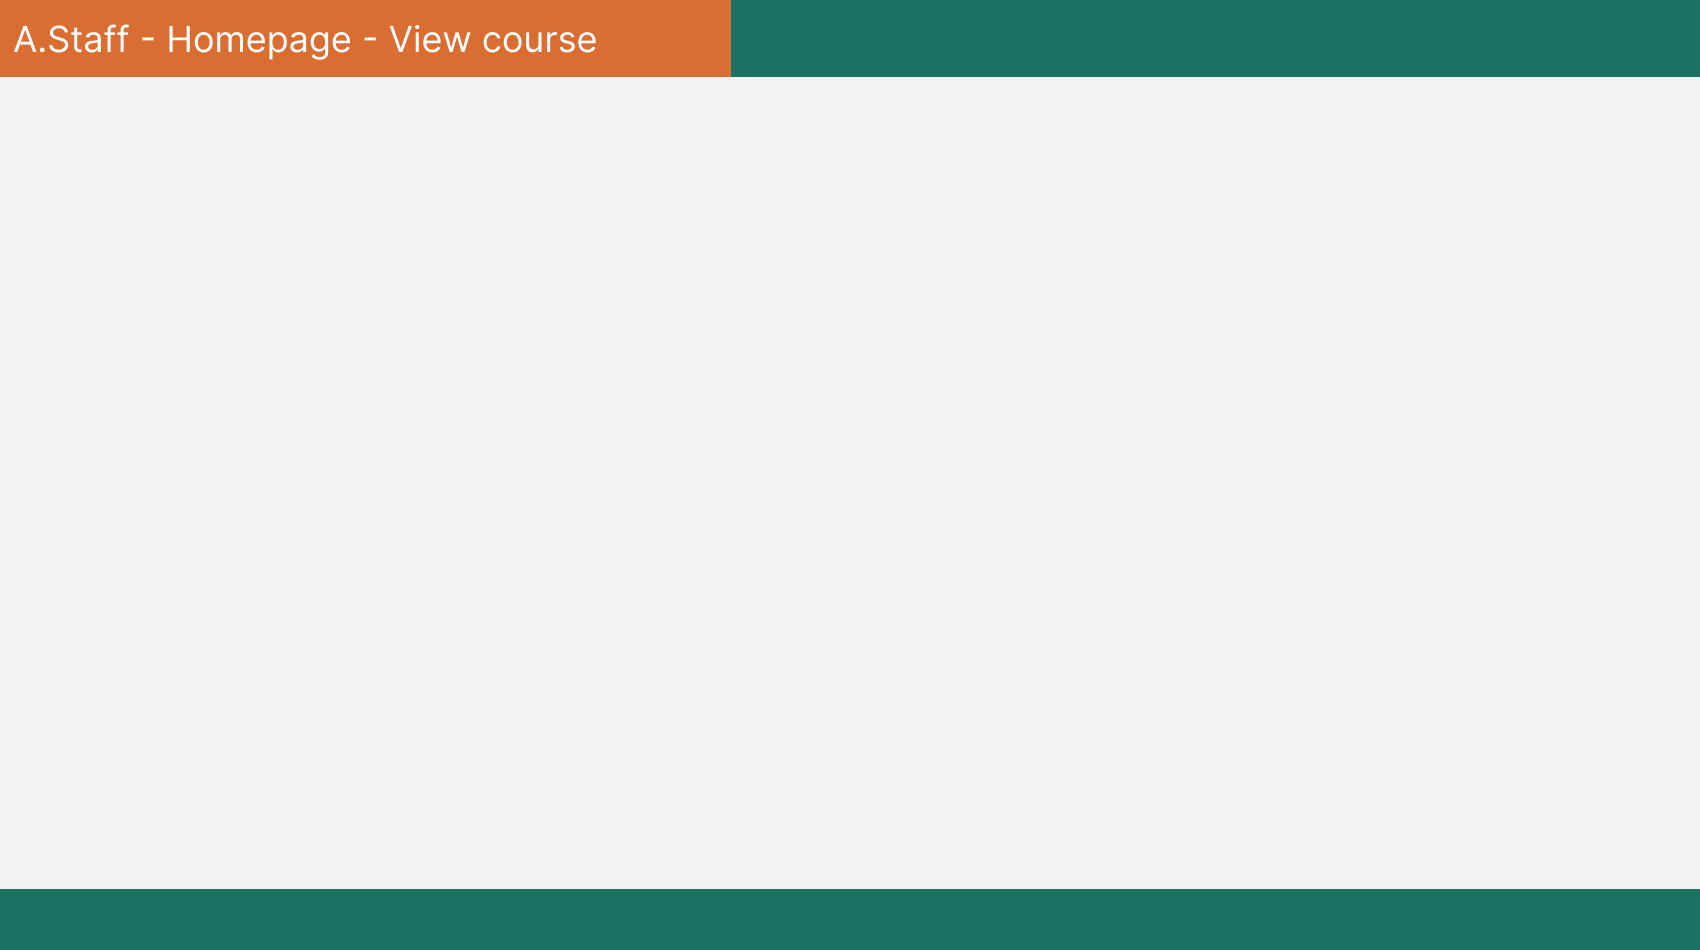
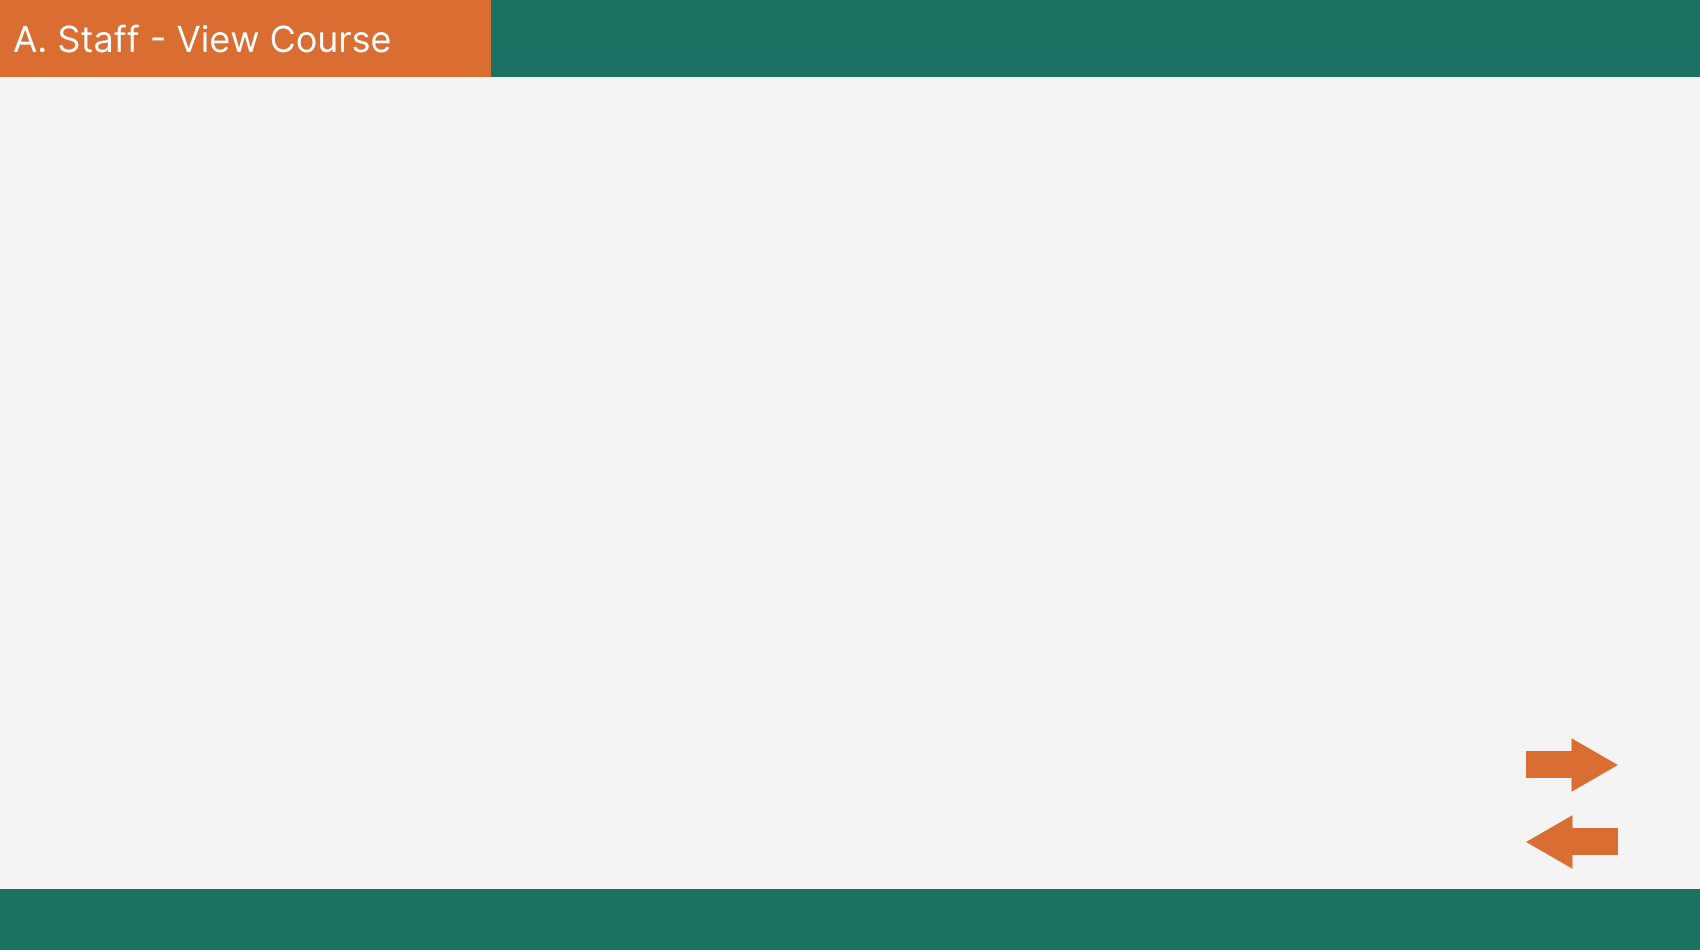
feat: Add some more Activities in Staff window

Changed region(s): [[0.0312, 0.0, 0.4365, 0.0916], [0.9041, 0.8547, 0.9665, 0.9158], [0.8729, 0.7632, 0.9665, 0.8242]]

diff --git a/SFML/Activity2.cpp b/SFML/Activity2.cpp
@@ -104,6 +104,46 @@ void Activity2::createNewSchoolYearStaff()
     }
 }
 
+void Activity2::createSemesterStaff(SchoolYear& SY)
+{
+    //CreateSemesterStaff.png
+    sf::RenderWindow windowNext(sf::VideoMode(1700, 950), "Create Semester", sf::Style::Close | sf::Style::Titlebar);
+
+    sf::Font fontNext;
+    if (!fontNext.loadFromFile("TextFont/arial.ttf"))
+        std::cout << "Could not load the font" << std::endl;
+
+    sf::Texture textureNext;
+    if (!textureNext.loadFromFile("Assets/CreateSemesterStaff.png"))
+        std::cout << "Could not load the CreateSemesterStaff image" << std::endl;
+    std::cout << "Generate Create Semester Staff sucess" << std::endl;
+    sf::Sprite background(textureNext);
+
+    Button goBackBtn(686, 766, 245, 66, "Go back", fontNext, orange);
+
+
+    while (windowNext.isOpen()) {
+        sf::Event event;
+        while (windowNext.pollEvent(event)) {
+            if (event.type == sf::Event::Closed)
+                windowNext.close();  // Close 
+            else if (event.type == sf::Event::MouseButtonPressed) {
+                sf::Vector2i mousePos = sf::Mouse::getPosition(windowNext);
+
+                if (goBackBtn.isClicked(mousePos))
+                    windowNext.close();
+            }
+
+        }
+
+        windowNext.clear(sf::Color::White);
+        windowNext.draw(background);
+
+        goBackBtn.draw(windowNext);
+        windowNext.display();
+    }
+}
+
 void Activity2::viewAllCourseStaff(vector<Course>& course)
 {
     sf::RenderWindow windowNext(sf::VideoMode(1700, 950), "All Course", sf::Style::Close | sf::Style::Titlebar);
@@ -121,7 +161,7 @@ void Activity2::viewAllCourseStaff(vector<Course>& course)
     Button goBackBtn(686, 766, 245, 66, "Go back", fontNext, orange);
     vector<Text> allOfCourse;
     for (int i = 0; i < course.size(); i++) {
-        Text temp(100, 100 + 30 * i, course[i].getID(), fontNext, sf::Color(30, 30, 30), 25);
+        Text temp(100.f, 100.f + 30 * i, course[i].getID(), fontNext, sf::Color(30, 30, 30), 25);
         allOfCourse.push_back(temp);
     }
 
@@ -153,7 +193,7 @@ void Activity2::viewAllCourseStaff(vector<Course>& course)
 
 void Activity2::viewCourseInSemester(Semester& semester)
 {
-
+    int displayFrom = 0;
     const sf::Color GREEN = sf::Color(26, 114, 98);
     sf::RenderWindow windowNext(sf::VideoMode(1700, 950), "View a semester", sf::Style::Close | sf::Style::Titlebar);
     sf::Texture textureNext;
@@ -167,6 +207,8 @@ void Activity2::viewCourseInSemester(Semester& semester)
     std::cout << "Generate Your course student sucess" << std::endl;
     sf::Sprite background(textureNext);
 
+    Button nextPageBtn(1226.f, 750.f, 92.f, 62.f, "Next", fontNext, sf::Color(218, 110, 50));
+    Button prevPageBtn(1226.f, 827.f, 92.f, 62.f, "Prev", fontNext, sf::Color(218, 110, 50));
     
 
     Button goBackBtn(686, 766, 245, 66, "Go back", fontNext, orange);
@@ -175,18 +217,19 @@ void Activity2::viewCourseInSemester(Semester& semester)
     vector<courseButton> allOfCourse;
     //std::cout << semester.courses[0].getID() << std::endl;
     
-    courseButton temp(65, 209, semester.courses[0], fontNext);
+    //courseButton temp(65, 209, semester.courses[0], fontNext);
 
-    //for (int i = 0; i < semester.courses.size(); i++) {
-    //    //Text temp(150, 300 + 150 * i, semester.courses[i].getID(), fontNext, sf::Color(30, 30, 30), 25);
-    //    courseButton temp(65 + 273*(i % 5), 209 + 210 * (i/5), semester.courses[i], fontNext);
-    //    allOfCourse.push_back(temp);
+    for (int i = 0; i < semester.courses.size(); i++) {
+        courseButton temp(65 + 273*(i % 5), 209 + 210 * (i/5), semester.courses[i], fontNext);
+        allOfCourse.push_back(temp);
 
-    //    std::cout << semester.courses[i].getID() << std::endl;
-    //    //std::cout << semester.courses[i].
-    //}
+        std::cout << semester.courses[i].getID() << std::endl;
+        //std::cout << semester.courses[i].
+    }
 
     while (windowNext.isOpen()) {
+        long long limitDisplay = (displayFrom + 4) > allOfCourse.size() ? allOfCourse.size() : (displayFrom + 4);
+
         sf::Event event;
         while (windowNext.pollEvent(event)) {
             if (event.type == sf::Event::Closed)
@@ -196,6 +239,16 @@ void Activity2::viewCourseInSemester(Semester& semester)
 
                 if (goBackBtn.isClicked(mousePos))
                     windowNext.close();
+
+                if (prevPageBtn.isClicked(mousePos)) {
+                    if (displayFrom - 4 >= 0)
+                        displayFrom -= 4;
+                }
+
+                if (nextPageBtn.isClicked(mousePos)) {
+                    if (displayFrom + 4 <= allOfCourse.size())
+                        displayFrom += 4;
+                }
             }
 
         }
@@ -204,9 +257,9 @@ void Activity2::viewCourseInSemester(Semester& semester)
         windowNext.draw(background);
 
         text.draw(windowNext);
-        //for (int i = 0; i < semester.courses.size(); i++) {
-        //    allOfCourse[i].draw(windowNext);
-        //}
+        for (int i = displayFrom; i < limitDisplay; i++) {
+            allOfCourse[i].draw(windowNext);
+        }
 
         goBackBtn.draw(windowNext);
         windowNext.display();
@@ -251,7 +304,7 @@ void Activity2::viewOneClass(Class& oneclass)
             temp += ' ';
         temp += oneclass.students[i].getGender();
         
-        Text text(82, 188 + 32*i, temp, fontNext, BLACK, 32);
+        Text text(82.f, 188.f + 32*i, temp, fontNext, BLACK, 32);
 
         listOfStudent.push_back(text);
     }
@@ -305,14 +358,17 @@ void Activity2::viewAllClassStaff(vector<Class>& allClass)
         std::cout << "Could not load the font" << std::endl;
 
     sf::Texture textureNext;
-    if (!textureNext.loadFromFile("Assets/ViewAllClassesStaff.png"))
-        std::cout << "Could not load the YourCourseStudent image" << std::endl;
+    if (!textureNext.loadFromFile("Assets/ViewAllClassStaff.png"))
+        std::cout << "Could not load the ViewAllClassStaff image" << std::endl;
     std::cout << "Generate View all class sucess" << std::endl;
     sf::Sprite background(textureNext);
 
     Button goBackBtn(686, 766, 245, 66, "Go back", fontNext, orange);
-    //vector<Text> allOfCourse;
-
+    vector<Button> allOfClasses;
+    for (int i = 0; i < allClass.size(); i++) {
+        Button temp(100.f + 315*(i % 5), 135.f + 90*(i / 5), 245.f, 66.f, allClass[i].classID, fontNext, sf::Color(26, 114, 96));
+        allOfClasses.push_back(temp);
+    }
 
 
     while (windowNext.isOpen()) {
@@ -325,12 +381,21 @@ void Activity2::viewAllClassStaff(vector<Class>& allClass)
 
                 if (goBackBtn.isClicked(mousePos))
                     windowNext.close();
+
+                for (int i = 0; i < allOfClasses.size(); i++) {
+                    if (allOfClasses[i].isClicked(mousePos))
+                        viewOneClass(allClass[i]);
+                }
             }
 
         }
 
         windowNext.clear(sf::Color::White);
         windowNext.draw(background);
+
+        for (int i = 0; i < allOfClasses.size(); i++) {
+            allOfClasses[i].draw(windowNext);
+        }
 
         goBackBtn.draw(windowNext);
         windowNext.display();

diff --git a/SFML/Activity.cpp b/SFML/Activity.cpp
@@ -1,6 +1,4 @@
 #include "Activity.h"
-
-
 // Global variables
 
 
@@ -210,6 +208,7 @@ void Activity::initInformationStudentWindow(sf::RenderWindow& window)
     std::cout << "Generate Student Information sucess" << std::endl;
     sf::Sprite background(texture);
 
+    std::cout << user.url << std::endl;
 
     while (window.isOpen()) {
         sf::Event event;
@@ -443,6 +442,7 @@ void Activity::initHomePageStaffWindow(sf::RenderWindow& window)
     Button createNewSYBtn(51.f, 106.f, 450.f, 55.f, "Create School Year", font, sf::Color(218, 110, 50));
     Button viewAllCoursesBtn(1375.f, 436.f, 300, 55, "View all courses", font, sf::Color(144, 44, 44));
     Button viewAllClassBtn(1380.f, 700.f, 250, 40, "View all >>", font, sf::Color(144, 44, 44));
+    Button createSemester(1046.f, 270.f, 230.f, 55.f, "Add semester", font, sf::Color(144, 44, 44));
 
     int displaySY = 0;
     
@@ -459,7 +459,7 @@ void Activity::initHomePageStaffWindow(sf::RenderWindow& window)
     //}
     vector<Button> displayBtn;
     for (int i = 0; i < min(allClass.size(),4LL); i++) {
-        Button temp(1380.f + 140 * (i / 2), 584 + 60*(i % 2), 120, 40, allClass[i].classID, font, sf::Color(144, 44, 44));
+        Button temp(1380.f + 140 * (i / 2), 584.f + 60*(i % 2), 120, 40, allClass[i].classID, font, sf::Color(144, 44, 44));
         displayBtn.push_back(temp);
     }
 
@@ -500,6 +500,7 @@ void Activity::initHomePageStaffWindow(sf::RenderWindow& window)
 
                 if (createNewSYBtn.isClicked(mousePos))
                 {
+                    // Implement a function to create a new Schoolyear folder
                     Activity2::createNewSchoolYearStaff();
                 }
 
@@ -509,6 +510,11 @@ void Activity::initHomePageStaffWindow(sf::RenderWindow& window)
 
                 if (viewAllClassBtn.isClicked(mousePos)) {
                     Activity2::viewAllClassStaff(allClass);
+                }
+
+                if (createSemester.isClicked(mousePos))
+                    if (displaySY == 0 && (!schoolyearBtn[0].s1 || !schoolyearBtn[0].s2 || !schoolyearBtn[0].s3)) {
+                        Activity2::createSemesterStaff(existedSchoolYear[0]);
                 }
 
                 for (int i = displaySY; i < tempSY; ++i){
@@ -528,9 +534,7 @@ void Activity::initHomePageStaffWindow(sf::RenderWindow& window)
                 for (int i = 0; i < displayBtn.size(); i++) {
                     if (displayBtn[i].isClicked(mousePos))
                         Activity2::viewOneClass(allClass[i]);
-                }
-
-                
+                }             
             }
 
         }
@@ -558,6 +562,9 @@ void Activity::initHomePageStaffWindow(sf::RenderWindow& window)
             schoolyearBtn[i].draw(window);
         }
         
+        if (displaySY == 0 && (!schoolyearBtn[0].s1 || !schoolyearBtn[0].s2 || !schoolyearBtn[0].s3))
+            createSemester.draw(window);
+
         window.display();
 
         

diff --git a/SFML/ExtraFunction.cpp b/SFML/ExtraFunction.cpp
@@ -17,8 +17,6 @@ std::string EF::getDateTime()
 	return ss.str();
 }
 
-
-
 void getSubjectData(User& user, fsys::path url)
 {
 	std::ifstream sub;
@@ -108,7 +106,7 @@ int checkLoginType(User& user) // return 0 if wrong acc/pass, return 1 if studen
 			std::string subjectUrl = User + "/" + User + "_subject.csv";
 			getSubjectData(user, "data/student" / cla / subjectUrl);
 
-			fin.open("data/student" / cla / stringUser);
+			fin.open("data/student" / cla / User / (User +".csv"));
 
 			getline(fin, user.id);
 			getline(fin, user.className);
@@ -121,8 +119,8 @@ int checkLoginType(User& user) // return 0 if wrong acc/pass, return 1 if studen
 
 			// Need to be change to private and use setter
 			user.type = "Student";
-			fsys::path temp = "data/student" / cla / stringUser;
-			user.url = temp;
+			
+			user.url = "data / student" / cla / User;
 			fin.close();
 			return 1;
 		}
@@ -180,46 +178,32 @@ bool changePassword(User& user, std::string oldPassword, std::string newPassword
 	// Read all the course in the student file
 	if (user.getType() == "Student") {
 
-		std::ifstream fin;
-		fin.open(user.url);
-		if (!fin.is_open())
-			std::cout << "Can not open information file to change password" << std::endl;
-
-		std::string temp;
-		for (int i = 1; i <= 5; i++)
-			getline(fin, temp); // Pass the usser information
-		while (!fin.eof()) {
-			getline(fin, temp);
-			listOfCourse.push_back(temp);
+		std::ofstream fout;
+		fout.open(user.url / "password.txt");
+		if (!fout.is_open()) {
+			std::cout << "Can not open password.txt to change password" << std::endl;
+			return false;
 		}
-		fin.close();
-	}
+		fout << user.password;
 
-	std::ofstream fout;
-	fout.open(user.url);
-	if (!fout.is_open()) {
-		std::cout << "Can not open the user information file!" << std::endl;
-		return false;
-	}
-
-	fout << user.getPassword() << ',' << std::endl;
-	if (user.getType() == "Student") {
-		fout << user.className << std::endl;
-		fout << user.id << std::endl;
-		fout << user.fullname << std::endl;
-		fout << user.dayOfBirth << std::endl;
-
-		for (int i = 0; i < listOfCourse.size(); i++)
-			fout << listOfCourse[i] << std::endl;
+		fout.close();
+		std::cout << "Succesful change the password" << std::endl;
 	}
 
 	else {
+		std::ofstream fout;
+		fout.open(user.url);
+		if (!fout.is_open()) {
+			std::cout << "Can not open the staff information file!" << std::endl;
+			return false;
+		}
+
+		fout << user.getPassword() << ',' << std::endl;		
 		fout << user.fullname << std::endl;
+		fout.close();
+
+		std::cout << "Succesful change the password" << std::endl;
 	}
-
-	fout.close();
-
-	std::cout << "Succesful change the password" << std::endl;
 	return true;
 }
 

diff --git a/SFML/Components.cpp b/SFML/Components.cpp
@@ -423,7 +423,16 @@ schoolyearButton::schoolyearButton(float x, float y, SchoolYear& infor, sf::Font
         sem2 = semesterButton(x + 15 + 220, y + 70, infor.semester[1], font);
         sem3 = semesterButton(x + 15  + 220 + 220, y + 70, infor.semester[2], font);
     }
+    else if (infor.semester.size() == 2) {
+        s1 = s2 = true;
+        sem1 = semesterButton(x + 15, y + 70, infor.semester[0], font);
+        sem2 = semesterButton(x + 15 + 220, y + 70, infor.semester[1], font);
 
+    }
+    else if (infor.semester.size() == 1) {
+        s1 = true;
+        sem1 = semesterButton(x + 15, y + 70, infor.semester[0], font);
+    }
 
 }
 

diff --git a/SFML/Activity2.h b/SFML/Activity2.h
@@ -21,6 +21,8 @@ public:
 
 	static void createNewSchoolYearStaff();
 
+	static void createSemesterStaff(SchoolYear& SY);
+
 	static void viewAllCourseStaff(vector<Course>& course);
 
 	static void viewCourseInSemester(Semester& semester);
@@ -28,5 +30,7 @@ public:
 	static void viewOneClass(Class& oneclass);
 
 	static void viewAllClassStaff(vector<Class>& allClass);
+
+	
 };
 

diff --git a/SFML/Semester.h b/SFML/Semester.h
@@ -108,7 +108,7 @@ public:
 		{
 			courses[i].create(); 
 		}
-		std::cout << "\nDone creating folder semester."
+		std::cout << "\nDone creating folder semester.";
 
 	}
 };
